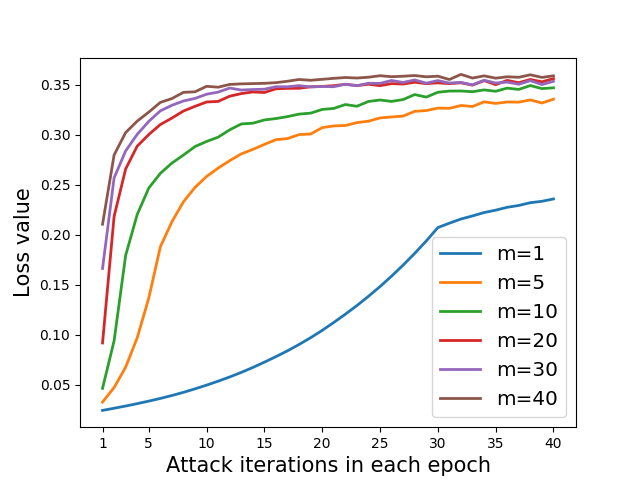
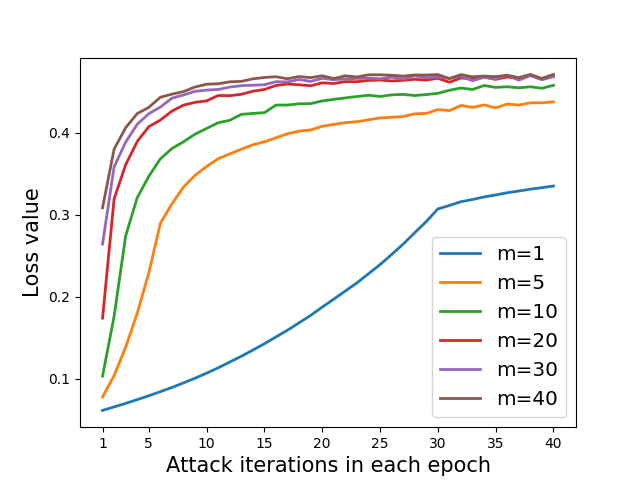
update attack iteration vs loss graph

diff --git a/measure-atta-loss-vs-step.py b/measure-atta-loss-vs-step.py
@@ -15,18 +15,18 @@ import tensorflow as tf
 from pgd_attack import LinfPGDAttack
 
 parser = argparse.ArgumentParser(description='TF CIFAR PGD')
-parser.add_argument('--log-prefix',  default='./data-log/measure/atta-loss-vs-step-',
+parser.add_argument('--log-prefix', default='./data-log/measure/atta-loss-vs-step-',
                     help='Log path.')
 parser.add_argument('--gpuid', type=int, default=0,
-                    help='The ID of GPU.')                    
+                    help='The ID of GPU.')
 parser.add_argument('--atta-largest-step', type=int, default=40,
                     help='ATTA attack step.')
 parser.add_argument('--atta-loop', type=int, default=10,
                     help='ATTA attack measurement loop.')
 parser.add_argument('--model-dir', default='./checkpoints',
-                    help='The dir of the saved model')   
+                    help='The dir of the saved model')
 parser.add_argument('--ckpt', type=int, default=99900,
-                    help='checkpoint')                        
+                    help='checkpoint')
 args = parser.parse_args()
 
 GPUID = args.gpuid
@@ -35,71 +35,70 @@ os.environ["CUDA_VISIBLE_DEVICES"] = str(GPUID)
 # log_file = open(args.log_path, 'w')
 
 if __name__ == '__main__':
-  import json
+    import json
 
-  from tensorflow.examples.tutorials.mnist import input_data
+    from tensorflow.examples.tutorials.mnist import input_data
 
-  from model import Model
+    from model import Model
 
-  with open('config.json') as config_file:
-    config = json.load(config_file)
-  
-  model_dir = args.model_dir
+    with open('config.json') as config_file:
+        config = json.load(config_file)
 
-  model = Model()
-  attack = LinfPGDAttack(model,
-                         config['epsilon'],
-                         args.atta_largest_step,
-                         config['a'],
-                         config['random_start'],
-                         config['loss_func'])
-  saver = tf.train.Saver()
+    model_dir = args.model_dir
 
-  mnist = input_data.read_data_sets('MNIST_data', one_hot=False)
+    model = Model()
+    attack = LinfPGDAttack(model,
+                           config['epsilon'],
+                           args.atta_largest_step,
+                           config['a'],
+                           config['random_start'],
+                           config['loss_func'])
+    saver = tf.train.Saver()
 
-  print(mnist.train.images.shape)
-  x_batch = mnist.train.images[0:500]
-  y_batch = mnist.train.labels[0:500]
-  x_batch_adv = x_batch.copy()
+    mnist = input_data.read_data_sets('MNIST_data', one_hot=False)
 
-  idx_atta = 0
+    x_batch = mnist.test.images[0:500]
+    y_batch = mnist.test.labels[0:500]
+    x_batch_adv = x_batch.copy()
 
-  atta_loop = [1, 5, 10, 20, 30, 40]
-  with tf.Session() as sess:
-    for loop_size in atta_loop:
-        path = args.log_prefix + str(atta_loop[idx_atta]) + ".log"
-        print(path)
-        log_file = open(path, 'w')
-        print("Current loop size: {}".format(loop_size))
-        for i in range(args.atta_largest_step):
-          atta_step = i + 1
-          x_batch_adv = x_batch.copy()
-          cur_ckpt = args.ckpt - 300 * (loop_size - 1)
+    idx_atta = 0
 
-          print(os.path.join(model_dir, "checkpoint-" + str(cur_ckpt)))
+    atta_loop = [1, 5, 10, 20, 30, 40]
+    with tf.Session() as sess:
+        for loop_size in atta_loop:
+            path = args.log_prefix + str(atta_loop[idx_atta]) + ".txt"
+            print(path)
+            log_file = open(path, 'w')
+            print("Current loop size: {}".format(loop_size))
+            for i in range(args.atta_largest_step):
+                atta_step = i + 1
+                x_batch_adv = x_batch.copy()
+                cur_ckpt = args.ckpt - 300 * (loop_size - 1)
 
-          for iteration in range(loop_size):
-            model_ckpt = os.path.join(model_dir, "checkpoint-" + str(cur_ckpt))
-            saver.restore(sess, model_ckpt)
+                print(os.path.join(model_dir, "checkpoint-" + str(cur_ckpt)))
 
-            x_batch_adv = attack.perturb_transferbility(x_batch, x_batch_adv, y_batch, sess, step=atta_step)
-            cur_ckpt += 300
+                for iteration in range(loop_size):
+                    model_ckpt = os.path.join(model_dir, "checkpoint-" + str(cur_ckpt))
+                    saver.restore(sess, model_ckpt)
 
-          nat_dict = {model.x_input: x_batch,
-                      model.y_input: y_batch}
-          adv_dict = {model.x_input: x_batch_adv,
-                      model.y_input: y_batch}
+                    x_batch_adv = attack.perturb_transferbility(x_batch, x_batch_adv, y_batch, sess, step=atta_step)
+                    cur_ckpt += 300
 
-          nat_loss = sess.run(model.mean_xent, feed_dict=nat_dict)
-          loss = sess.run(model.mean_xent, feed_dict=adv_dict)
+                nat_dict = {model.x_input: x_batch,
+                            model.y_input: y_batch}
+                adv_dict = {model.x_input: x_batch_adv,
+                            model.y_input: y_batch}
 
-          print("Attack iterations:     {}".format(i))
-          print("adv loss:     {}".format(loss))
-          print("nat-loss: {}".format(nat_loss))
-          print("per:      {}%".format(loss / nat_loss * 100))
+                nat_loss = sess.run(model.mean_xent, feed_dict=nat_dict)
+                loss = sess.run(model.mean_xent, feed_dict=adv_dict)
 
-          log_file.write("{} {} {} {}\n".format(loop_size, atta_step, loss, nat_loss))
-          cur_ckpt += 300
-        log_file.close()
-        idx_atta += 1
+                print("Attack iterations:     {}".format(i))
+                print("adv loss:     {}".format(loss))
+                print("nat-loss: {}".format(nat_loss))
+                print("per:      {}%".format(loss / nat_loss * 100))
+
+                log_file.write("{} {} {} {}\n".format(loop_size, atta_step, loss, nat_loss))
+                cur_ckpt += 300
+            log_file.close()
+            idx_atta += 1
 log_file.close()

diff --git a/draw_iteration_loss.py b/draw_iteration_loss.py
@@ -4,12 +4,12 @@ import seaborn as sns
 
 plt.switch_backend('agg')
 
-log1 = open('data-log/measure/atta-loss-vs-step-1.log')
-log2 = open('data-log/measure/atta-loss-vs-step-5.log')
-log3 = open('data-log/measure/atta-loss-vs-step-10.log')
-log4 = open('data-log/measure/atta-loss-vs-step-20.log')
-log5 = open('data-log/measure/atta-loss-vs-step-30.log')
-log6 = open('data-log/measure/atta-loss-vs-step-40.log')
+log1 = open('data-log/measure/atta-loss-vs-step-1.txt')
+log2 = open('data-log/measure/atta-loss-vs-step-5.txt')
+log3 = open('data-log/measure/atta-loss-vs-step-10.txt')
+log4 = open('data-log/measure/atta-loss-vs-step-20.txt')
+log5 = open('data-log/measure/atta-loss-vs-step-30.txt')
+log6 = open('data-log/measure/atta-loss-vs-step-40.txt')
 
 
 label1 = "m=1"

diff --git a/measure-attack-loss.py b/measure-attack-loss.py
@@ -57,8 +57,8 @@ if __name__ == '__main__':
 
     mnist = input_data.read_data_sets('MNIST_data', one_hot=False)
 
-    x_batch = mnist.train.images[0:500, :]
-    y_batch = mnist.train.labels[0:500]
+    x_batch = mnist.test.images[0:500]
+    y_batch = mnist.tset.labels[0:500]
     x_batch_adv = x_batch.copy()
 
     idx_atta = 0
